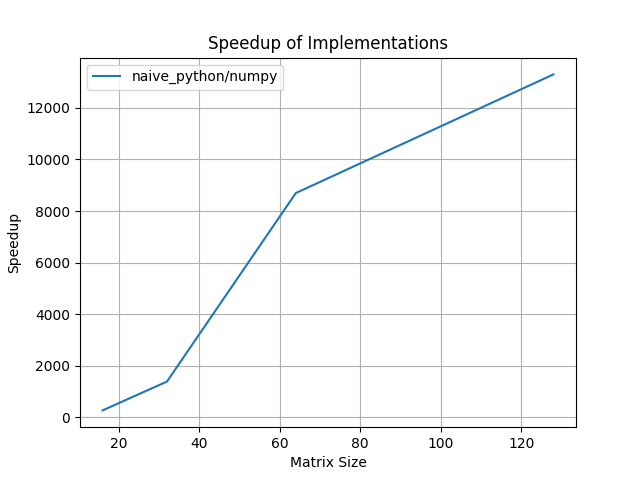
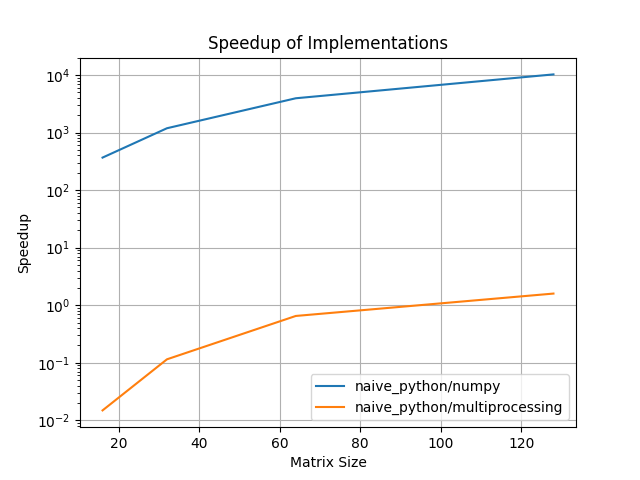
docs: add multiprocessing findings and benchmark analysis
- Remove "Planned" label from multiprocessing implementation
- Add multiprocessing speedup table and overhead analysis
- Add runtime comparison and speedup plot sections with images
- Add key takeaways summarizing performance insights
- Mark completed metrics and improvements as done
- Update benchmark results and plots with multiprocessing data

diff --git a/src/plot_results.py b/src/plot_results.py
@@ -43,6 +43,7 @@ def plot_results(results, comparison):
     plt.title("Speedup of Implementations")
     plt.xlabel("Matrix Size")
     plt.ylabel("Speedup")
+    plt.yscale('log')
     plt.grid(True)
     for impl, data in comparison.items():
         if impl != "matrix_size_grouped":

diff --git a/README.md b/README.md
@@ -30,8 +30,6 @@ This project currently includes:
    - Uses optimized library-backed matrix multiplication
    - Serves as the optimized reference implementation
 
-Planned:
-
 3. Multiprocessing implementation  
    - Splits matrix computation across CPU workers
    - Used to study parallel overhead and scaling
@@ -130,9 +128,9 @@ For each matrix size:
 
 Planned metrics:
 
-- runtime
-- average runtime
-- speedup versus naive baseline
+- runtime (done)
+- average runtime (done)
+- speedup versus naive baseline (done)
 - correctness flag
 
 ## Results
@@ -141,7 +139,7 @@ Outputs:
 
 - `results/raw/benchmark_results.csv` — raw timing data
 - `results/plots/comparison_plot.png` — average runtime vs matrix size (log scale)
-- `results/plots/speedup_plot.png` — speedup ratio (naive_python / other) vs matrix size (only has Numpy for now)
+- `results/plots/speedup_plot.png` — speedup relative to naive_python for all implementations
 
 ## Initial Observations
 
@@ -161,11 +159,51 @@ After plotting and calculating the average runtime and speedup ratio
 | 64          | 8,696x                         |
 | 128         | 13,298x                        |
 
+### Final Observation
+
+After implementing multiprocessing, the findings are as such:
+- The naive Python implementation exhibits O(n^3) time complexity with significant overhead from Python-level loops.
+- NumPy achieves large speedups by leveraging optimized low-level BLAS routines, enabling vectorized execution, better cache utilization, and reduced interpreter overhead.
+
+Multiprocessing introduces parallelism but suffers from overhead due to:
+- process creation
+- inter-process communication
+- data serialization (pickling)
+
+| Matrix Size | Speedup (naive_python / Multiprocessing) |
+|-------------|------------------------------------------|
+| 16          | 0.014x                                   |
+| 32          | 0.115x                                   |
+| 64          | 0.650x                                   |
+| 128         | 1.591x                                   |
+
+
+As a result, multiprocessing only outperforms the naive implementation at larger matrix sizes.
+
+## Runtime Comparison
+
+![Runtime Plot](results/plots/comparison_plot.png)
+
+## Speedup Analysis
+
+![Speedup Plot](results/plots/speedup_plot.png)
+
+Things to note:
+- A logarithmic scale is used for runtime plots to visualize large performance differences between implementations.
+- Each benchmark uses deterministic random seeds to ensure reproducibility across runs.
+
+## Key Takeaways
+
+- Pure Python implementations scale poorly due to interpreter overhead.
+- Vectorized libraries like NumPy provide massive speedups through optimized low-level routines.
+- Parallelism introduces overhead and is only beneficial for sufficiently large workloads.
+- Performance engineering requires balancing computation, memory access, and overhead costs.
+
 ## Future Improvements
 
 Planned extensions:
 
-- add multiprocessing implementation
+- add multiprocessing implementation (done)
 - add worker scaling experiments
 - add larger benchmark configurations
 - add runtime plots (done)
